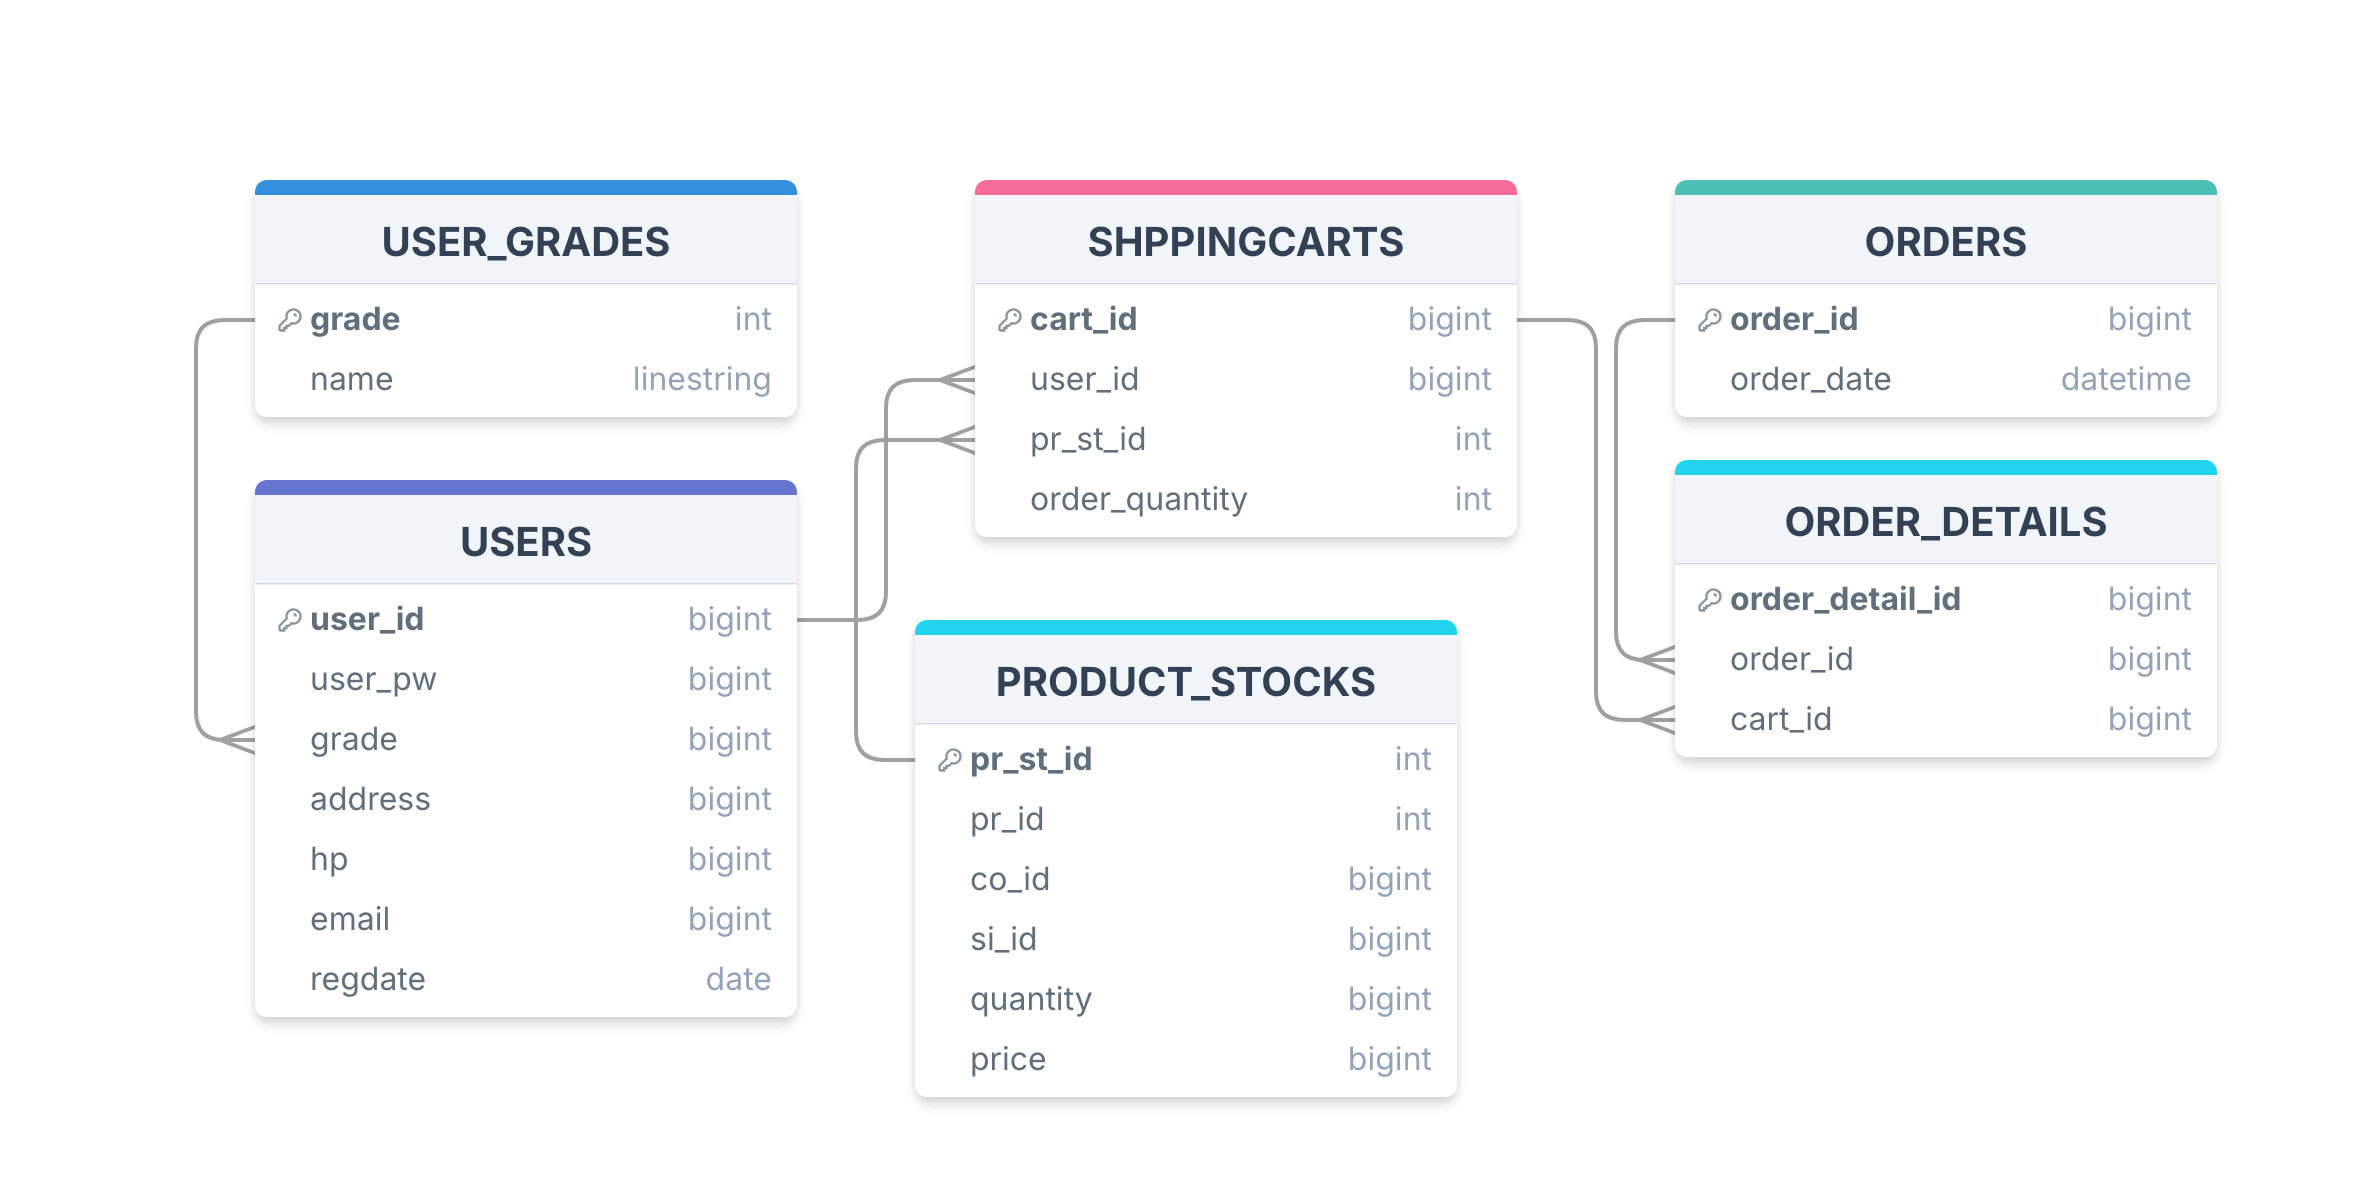
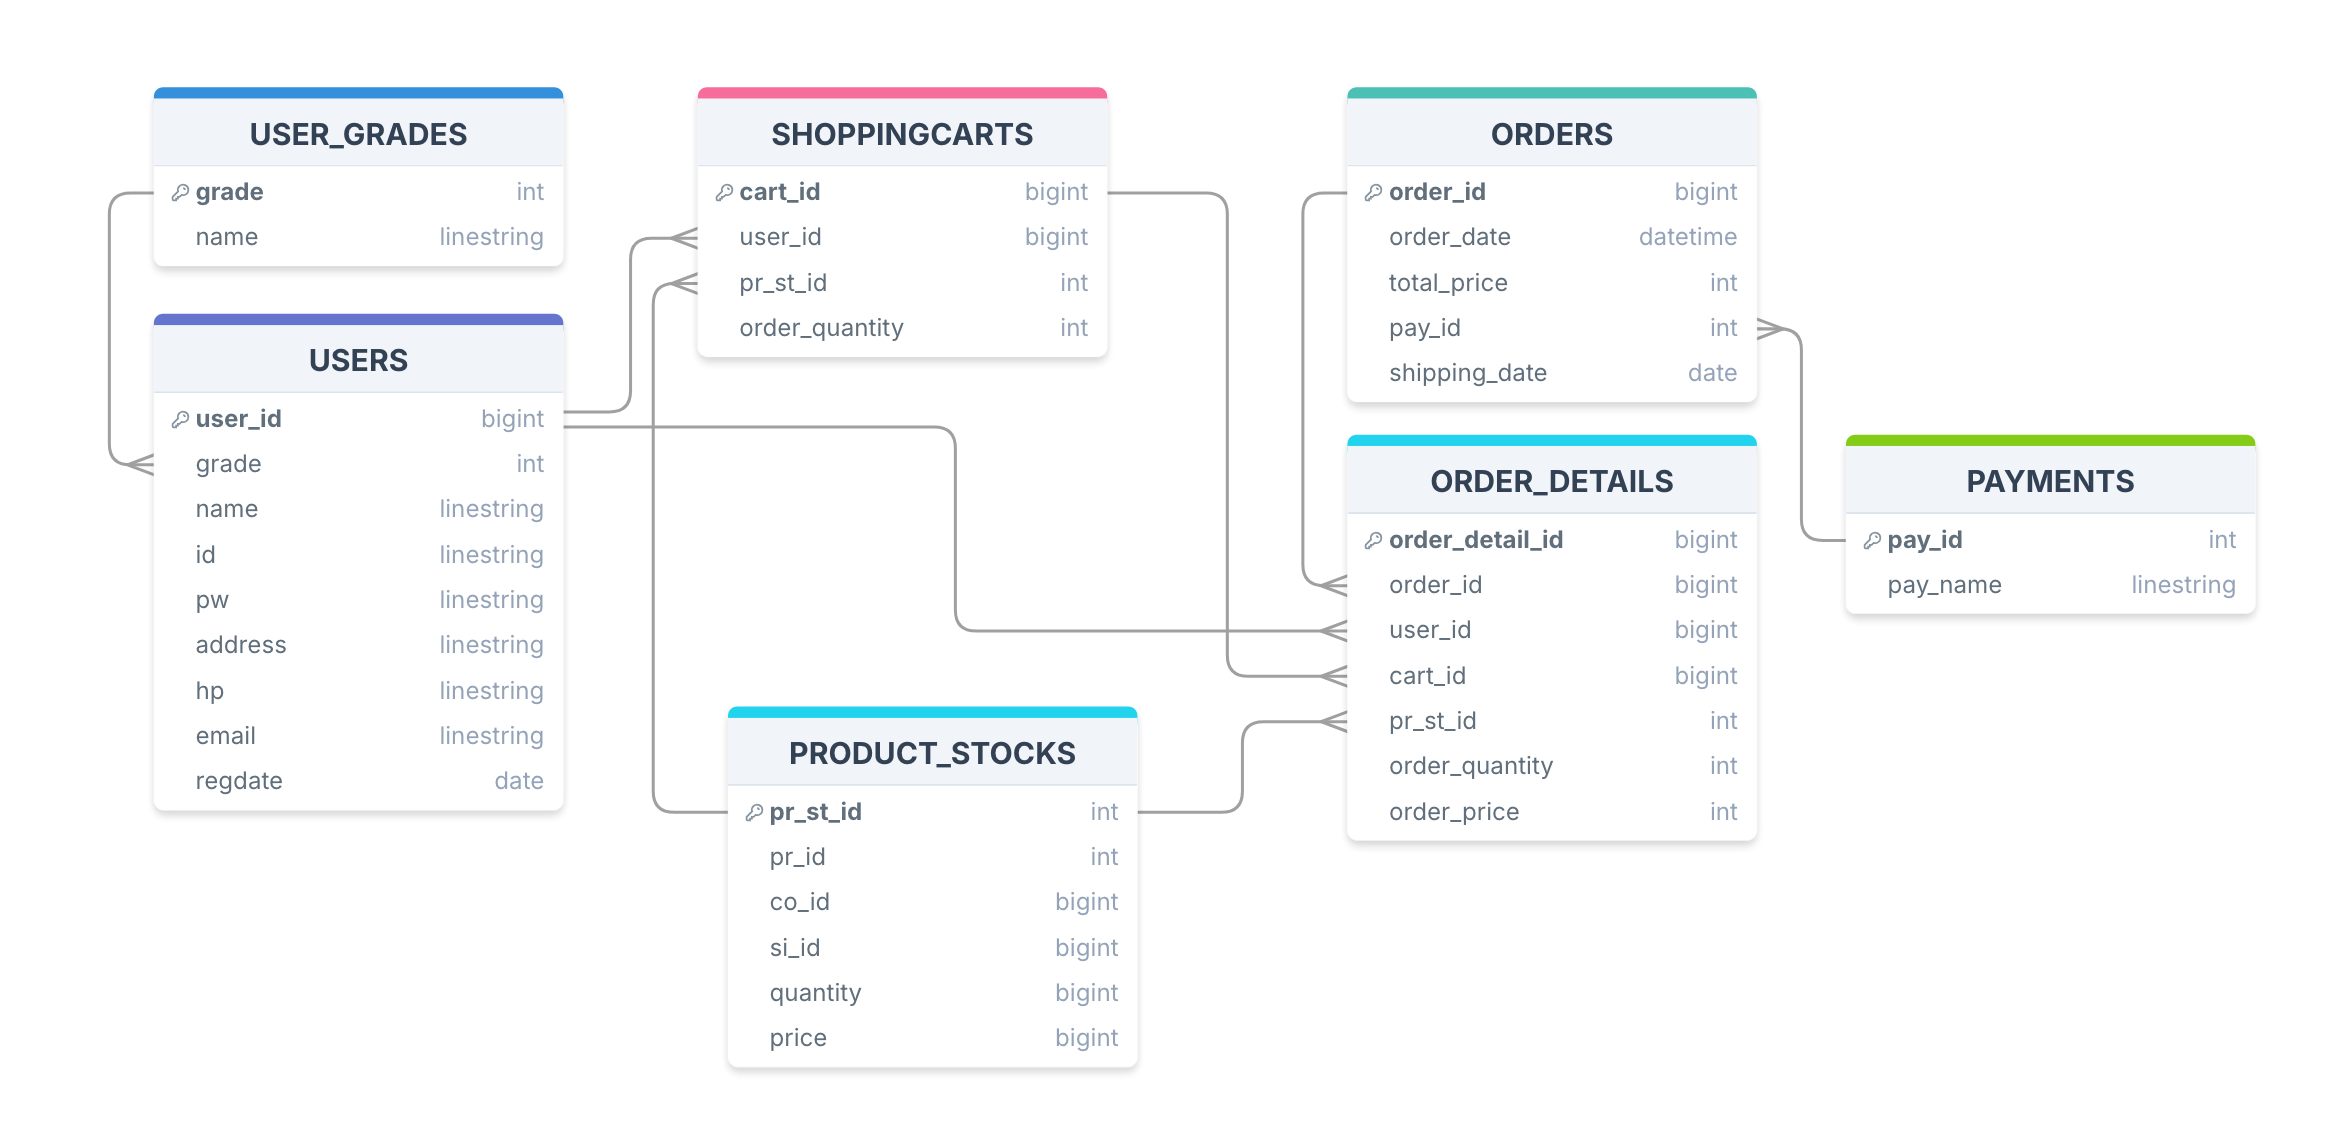
Fix memo

diff --git a/Memo-TOMCAT-JDBC-PROJECT.md b/Memo-TOMCAT-JDBC-PROJECT.md
@@ -23,6 +23,7 @@ conn JDBCPROJ/1234;
 ```
 ## ERD
 ![erd](./images/image73.png)
+![erd](./images/image74.png)
 ## Create Table
 ```sql
 DROP TABLE ORDER_DETAILS;
@@ -31,44 +32,104 @@ DROP TABLE USERS;
 DROP TABLE ORDERS;
 DROP TABLE PRODUCT_STOCKS;
 DROP TABLE USER_GRADES;
+DROP TABLE PRODUCT_DETAILS;
+DROP TABLE PRODUCTS;
+DROP TABLE CATEGORIES;
+DROP TABLE TEAMS;
+DROP TABLE SIZES;
+DROP TABLE COLORS;
 
-CREATE TABLE PRODUCT_STOCKS (
-    product_stock_id NUMBER GENERATED ALWAYS AS IDENTITY PRIMARY KEY,
-    product_id NUMBER NOT NULL,
-    color_id NUMBER NOT NULL,
-    size_id NUMBER NOT NULL,
-    quantity NUMBER NOT NULL,
-    price NUMBER NOT NULL
+-- 카테고리 테이블
+CREATE TABLE CATEGORIES (
+    ca_id NUMBER GENERATED ALWAYS AS IDENTITY PRIMARY KEY, -- 자동 증가 ID
+    ca_name VARCHAR2(100) NOT NULL -- 카테고리 이름
 );
+
+-- 팀 테이블
+CREATE TABLE TEAMS (
+    te_id NUMBER GENERATED ALWAYS AS IDENTITY PRIMARY KEY, -- 자동 증가 ID
+    te_name VARCHAR2(100) NOT NULL -- 팀 이름
+);
+
+-- 사이즈 테이블
+CREATE TABLE SIZES (
+    si_id NUMBER GENERATED ALWAYS AS IDENTITY PRIMARY KEY, -- 자동 증가 ID
+    si_name VARCHAR2(100) NOT NULL -- 사이즈 이름
+);
+
+-- 색상 테이블
+CREATE TABLE COLORS (
+    co_id NUMBER GENERATED ALWAYS AS IDENTITY PRIMARY KEY, -- 자동 증가 ID
+    co_name VARCHAR2(100) NOT NULL -- 색상 이름
+);
+
+-- 제품 테이블
+CREATE TABLE PRODUCTS (
+    pr_id NUMBER GENERATED ALWAYS AS IDENTITY PRIMARY KEY, -- 자동 증가 ID
+    ca_id NUMBER NOT NULL, -- 카테고리 ID (외래 키)
+    te_id NUMBER NOT NULL, -- 팀 ID (외래 키)
+    pr_name VARCHAR2(1000), -- 제품 이름
+    pr_regdate DATE -- 제품 등록 날짜
+);
+
+-- 제품 재고 테이블
+CREATE TABLE PRODUCT_STOCKS (
+    pr_st_id NUMBER GENERATED ALWAYS AS IDENTITY PRIMARY KEY, -- 자동 증가 ID
+    pr_id NUMBER NOT NULL, -- 제품 ID (외래 키)
+    co_id NUMBER NOT NULL, -- 색상 ID (외래 키)
+    si_id NUMBER NOT NULL, -- 사이즈 ID (외래 키)
+    quantity NUMBER NOT NULL, -- 재고 수량
+    price NUMBER NOT NULL -- 가격
+);
+
+-- 제품 상세 정보 테이블
+CREATE TABLE PRODUCT_DETAILS (
+    pr_de_id NUMBER GENERATED ALWAYS AS IDENTITY PRIMARY KEY, -- 자동 증가 ID
+    pr_id NUMBER NOT NULL, -- 제품 ID (외래 키)
+    subject VARCHAR2(2000) NOT NULL, -- 제품 설명
+    product_img VARCHAR2(2000) NOT NULL, -- 제품 이미지 URL
+    product_detail_img VARCHAR2(2000) NOT NULL -- 상세 이미지 URL
+);
+
 CREATE TABLE USER_GRADES (
     grade NUMBER GENERATED ALWAYS AS IDENTITY PRIMARY KEY,
     name VARCHAR(2000) NOT NULL
 );
+CREATE TABLE PATMENTS (
+    pay_id NUMBER GENERATED ALWAYS AS IDENTITY PRIMARY KEY,
+    pay_name VARCHAR(2000) NOT NULL
+);
 CREATE TABLE ORDERS (
     order_id NUMBER GENERATED ALWAYS AS IDENTITY PRIMARY KEY,
-    order_date DATE NOT NULL
+    order_date DATE NOT NULL,
+    total_price NUMBER NOT NULL,
+    pay_id NUMBER NOT NULL,
+    shipping_date DATE NOT NULL
 );
 CREATE TABLE SHOPPING_CARTS (
     cart_id NUMBER GENERATED ALWAYS AS IDENTITY PRIMARY KEY,
     user_id NUMBER NOT NULL,
-    product_stock_id NUMBER NOT NULL,
-    order_quantity NUMBER NOT NULL,
-    FOREIGN KEY (product_stock_id) REFERENCES PRODUCT_STOCKS (product_stock_id)
+    pr_st_id NUMBER NOT NULL,
+    order_quantity NUMBER NOT NULL
 );
 CREATE TABLE USERS (
     user_id NUMBER GENERATED ALWAYS AS IDENTITY PRIMARY KEY,
-    user_pw NUMBER NOT NULL,
     grade NUMBER NOT NULL,
+    name VARCHAR(2000) NOT NULL,
+    id VARCHAR(2000) NOT NULL,
+    pw VARCHAR(2000) NOT NULL,
     address VARCHAR(2000) NOT NULL,
-    phone NUMBER NOT NULL,
-    created_at DATE NOT NULL,
-    FOREIGN KEY (grade) REFERENCES USER_GRADES (grade)
+    email VARCHAR(2000) NOT NULL,
+    hp VARCHAR(2000) NOT NULL,
+    regdate DATE NOT NULL
 );
 CREATE TABLE ORDER_DETAILS (
     order_detail_id NUMBER GENERATED ALWAYS AS IDENTITY PRIMARY KEY,
     order_id NUMBER NOT NULL,
+    user_id NUMBER NOT NULL,
     cart_id NUMBER NOT NULL,
-    FOREIGN KEY (cart_id) REFERENCES SHOPPING_CARTS (cart_id),
-    FOREIGN KEY (order_id) REFERENCES ORDERS (order_id)
+    pr_st_id NUMBER NOT NULL,
+    order_quantity NUMBER NOT NULL,
+    order_price NUMBER NOT NULL
 );
 ```
